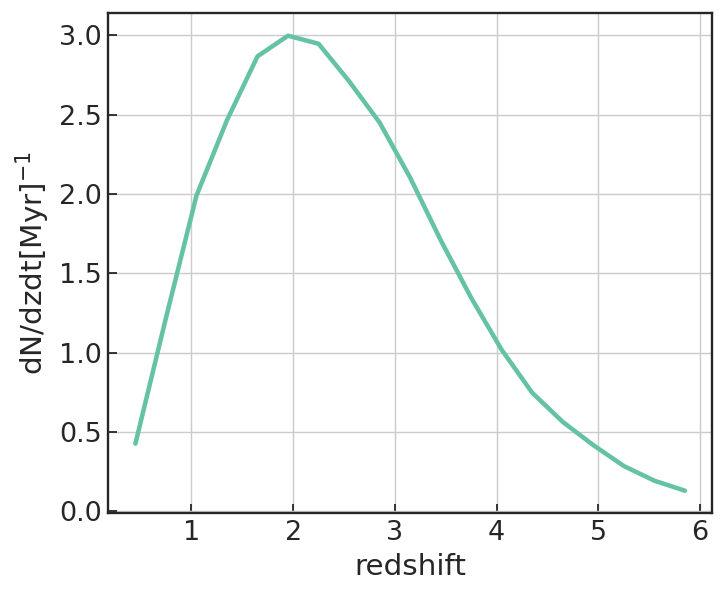
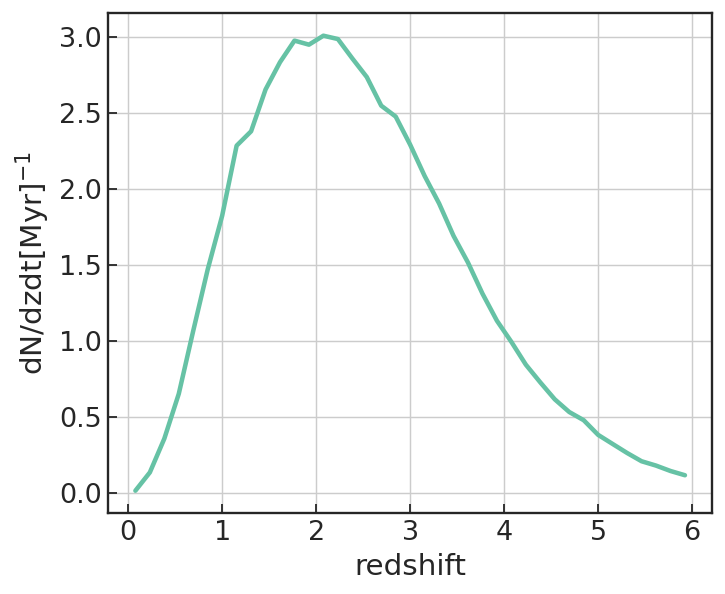
updated file reading in public example to circumvent missing headers

diff --git a/merger_catalog/codes/raw_merger/gather-data-v2.py b/merger_catalog/codes/raw_merger/gather-data-v2.py
@@ -83,14 +83,14 @@ uid, uidx = np.unique(swbh, return_index=True)
 mergers = mergers[uidx]
 
 print("unique mergers:", len(mergers))
-# savedir = "/hildafs/home/nianyic/scratch1/Astrid_data/lisa_mbhcat/lisa_mcat_v2.0_nogal.npy"
-# np.save(savedir, mergers)
-# print("saved catalog to:", savedir)
+savedir = "/hildafs/home/nianyic/scratch1/Astrid_data/lisa_mbhcat/lisa_mcat_v3.0_nogal.npy"
+np.save(savedir, mergers)
+print("saved catalog to:", savedir)
 
 
 fig, ax = plt.subplots(1, 1, figsize=(6, 5))
 vsim = 250**3
-zbin = np.linspace(0.3,6,20)
+zbin = np.linspace(0.,6,40)
 dz = zbin[1:] - zbin[:-1]
 zc = 0.5*(zbin[1:]+zbin[:-1])
 rc = np.array([cosmo.comovingDistance(0.,zz) for zz in zc])
